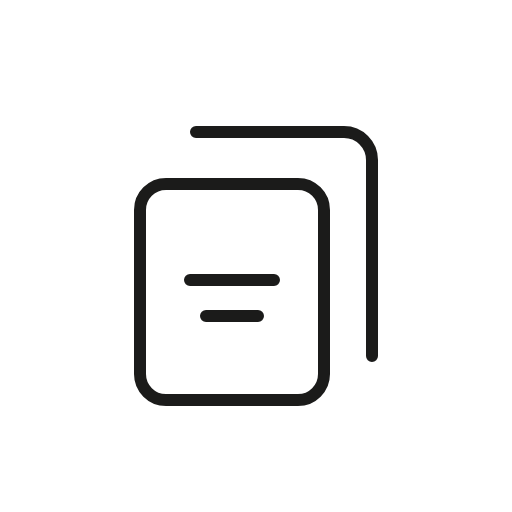
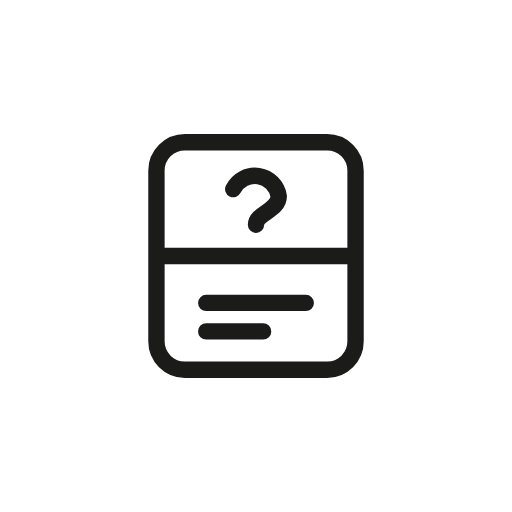
Ícone de baralho/flashcard: um cartão com pergunta e resposta, não as duas folhas do copiar

Changed region(s): [[0.25, 0.2188, 0.75, 0.8125]]

diff --git a/frontend/src/Icone.vue b/frontend/src/Icone.vue
@@ -15,8 +15,8 @@ defineProps({ nome: { type: String, required: true } })
     </template>
     <path v-else-if="nome === 'cartoes'" d="M9 6.5h11M9 12h11M9 17.5h11M4.5 6.5h.01M4.5 12h.01M4.5 17.5h.01" />
     <template v-else-if="nome === 'baralhos'">
-      <rect x="4" y="7" width="13" height="13" rx="2" />
-      <path d="M7.5 4H18a2 2 0 012 2v10.5" />
+      <path d="M7 4h10a2 2 0 012 2v12a2 2 0 01-2 2H7a2 2 0 01-2-2V6a2 2 0 012-2zM5 12h14" />
+      <path d="M10.4 7.3a1.7 1.7 0 013.2.5c0 1-1.6 1.2-1.6 2M8.5 15.3h7M8.5 17.3h4" />
     </template>
     <template v-else-if="nome === 'pedidos'">
       <path d="M4 13.5L6.5 5.5h11l2.5 8v5a1.5 1.5 0 01-1.5 1.5h-13A1.5 1.5 0 014 18.5z" />
